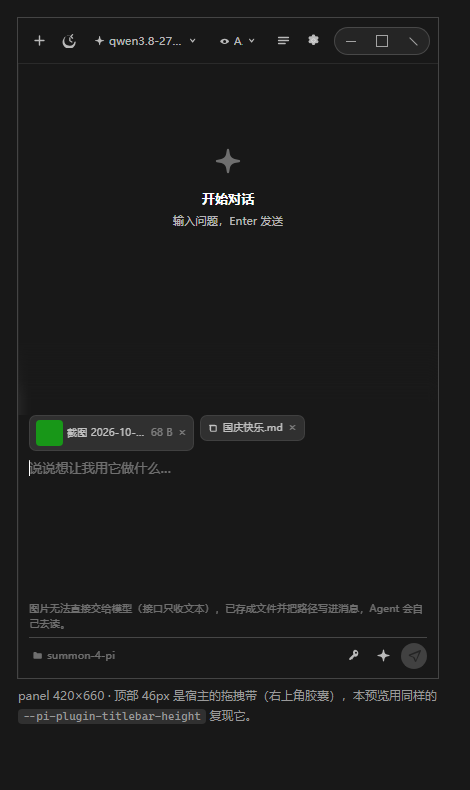
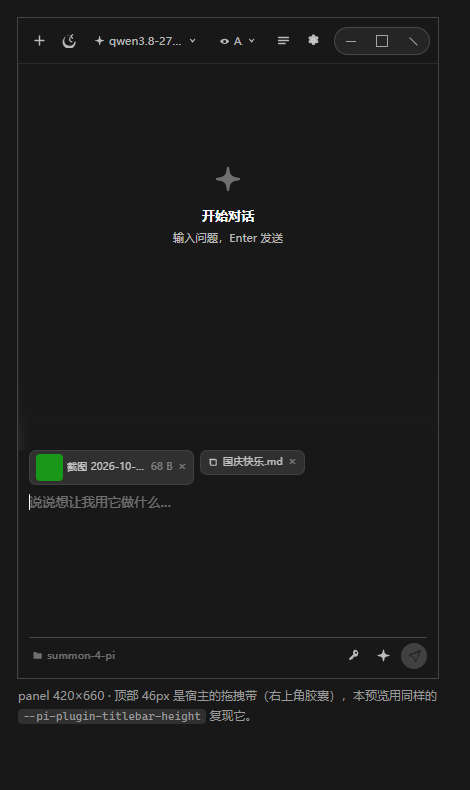
Drop the image note from the composer
The user asked for it gone: it took a line and pushed the controls around. The
limit it explained is documented in the README instead, and it is a two-line
mechanism rather than a policy anyone needs re-stated in the UI.

diff --git a/plugins/local.summon-chat/renderer/index.html b/plugins/local.summon-chat/renderer/index.html
@@ -693,11 +693,6 @@ body { overflow: hidden; }
 }
 .attach .ax:hover { color: var(--text-primary); }
 .attach.bad { border-color: var(--error); }
-.attach-note {
-  margin-top: .3rem; font-size: .6875rem; line-height: 1.45;
-  color: var(--text-disabled);
-}
-.attach-note[hidden] { display: none; }
 /* 输入框下面那一行：左边「当前项目文件夹」，右边四个按钮。
    一行放不下时项目名先截断（它有 title 提示，按钮没有替代品）。 */
 .composer-foot {
@@ -2904,10 +2899,8 @@ window.PiCurve = { create: create };
             <div class="cinbox">
               <textarea class="bare-input comp" id="chatInput" rows="2" placeholder="问点什么…" aria-label="提问输入框"></textarea>
             </div>
-            <!-- 贴了图片时的如实提示（快捷对话看不了图，见 renderAttachNote）。
-                 放在输入区**下面、按钮行上面**：这是布局上的从属关系 ——
-                 它说的是上面那坨内容，不是底下那排按钮。 -->
-            <div class="attach-note" id="attachNote" hidden></div>
+            <!-- 贴了图片时的提示条**删掉了**：用户说它太占位置。
+                 这条限制写在 README 里，不再占界面。 -->
             <!-- 最底下**一行**：左边当前项目文件夹，右边四个按钮。
                  用户要的就是这个形状 —— 项目名和按钮都在最底下、同一行，
                  而不是「项目名一行、按钮另一行」。 -->
@@ -5197,31 +5190,6 @@ window.PiCurve = { create: create };
           $("chatInput").placeholder = attachments.length
             ? "说说想让我用它做什么…"
             : "问点什么…";
-          renderAttachNote();
-        }
-
-        /**
-         * 快捷对话里贴了图片时的一条**如实提示**。
-         *
-         * 原因（已查证，见 README 的「附件」一节）：`pi.agent.complete` 的入参是纯文本
-         * （`messages: {role, content: string}[]`，没有图片字段），插件也没有任何
-         * 「往消息里放附件」的通道。所以哪怕当前模型支持图片，快捷对话也**没有一条路**
-         * 把像素交过去 —— 这一条与模型无关，只与接口有关。
-         *
-         * 不说清楚的话，用户会以为模型「看了图但不准」，而不是「根本没收到图」。
-         */
-        function renderAttachNote() {
-          var note = $("attachNote");
-          if (!note) return;
-          var hasImage = attachments.some(function (a) { return a.isImage; });
-          if (!hasImage) { note.hidden = true; note.textContent = ""; return; }
-          var model = currentModel();
-          var key = model && (model.label || model.key) || models.selected || "当前模型";
-          note.hidden = false;
-          note.textContent = isAgent()
-            ? "图片无法直接交给模型（接口只收文本），已存成文件并把路径写进消息，Agent 会自己去读。"
-            : "快捷对话无法把图片交给模型（接口只收文本）：" + key +
-              " 收不到这张图。换成 Agent 模式才能真正看图。";
         }
 
         function send(text) {

diff --git a/plugins/local.summon-chat/renderer/renderer.template.html b/plugins/local.summon-chat/renderer/renderer.template.html
@@ -242,11 +242,6 @@ body { overflow: hidden; }
 }
 .attach .ax:hover { color: var(--text-primary); }
 .attach.bad { border-color: var(--error); }
-.attach-note {
-  margin-top: .3rem; font-size: .6875rem; line-height: 1.45;
-  color: var(--text-disabled);
-}
-.attach-note[hidden] { display: none; }
 /* 输入框下面那一行：左边「当前项目文件夹」，右边四个按钮。
    一行放不下时项目名先截断（它有 title 提示，按钮没有替代品）。 */
 .composer-foot {
@@ -719,10 +714,8 @@ __ICONS__
             <div class="cinbox">
               <textarea class="bare-input comp" id="chatInput" rows="2" placeholder="问点什么…" aria-label="提问输入框"></textarea>
             </div>
-            <!-- 贴了图片时的如实提示（快捷对话看不了图，见 renderAttachNote）。
-                 放在输入区**下面、按钮行上面**：这是布局上的从属关系 ——
-                 它说的是上面那坨内容，不是底下那排按钮。 -->
-            <div class="attach-note" id="attachNote" hidden></div>
+            <!-- 贴了图片时的提示条**删掉了**：用户说它太占位置。
+                 这条限制写在 README 里，不再占界面。 -->
             <!-- 最底下**一行**：左边当前项目文件夹，右边四个按钮。
                  用户要的就是这个形状 —— 项目名和按钮都在最底下、同一行，
                  而不是「项目名一行、按钮另一行」。 -->
@@ -3012,31 +3005,6 @@ __ICONS__
           $("chatInput").placeholder = attachments.length
             ? "说说想让我用它做什么…"
             : "问点什么…";
-          renderAttachNote();
-        }
-
-        /**
-         * 快捷对话里贴了图片时的一条**如实提示**。
-         *
-         * 原因（已查证，见 README 的「附件」一节）：`pi.agent.complete` 的入参是纯文本
-         * （`messages: {role, content: string}[]`，没有图片字段），插件也没有任何
-         * 「往消息里放附件」的通道。所以哪怕当前模型支持图片，快捷对话也**没有一条路**
-         * 把像素交过去 —— 这一条与模型无关，只与接口有关。
-         *
-         * 不说清楚的话，用户会以为模型「看了图但不准」，而不是「根本没收到图」。
-         */
-        function renderAttachNote() {
-          var note = $("attachNote");
-          if (!note) return;
-          var hasImage = attachments.some(function (a) { return a.isImage; });
-          if (!hasImage) { note.hidden = true; note.textContent = ""; return; }
-          var model = currentModel();
-          var key = model && (model.label || model.key) || models.selected || "当前模型";
-          note.hidden = false;
-          note.textContent = isAgent()
-            ? "图片无法直接交给模型（接口只收文本），已存成文件并把路径写进消息，Agent 会自己去读。"
-            : "快捷对话无法把图片交给模型（接口只收文本）：" + key +
-              " 收不到这张图。换成 Agent 模式才能真正看图。";
         }
 
         function send(text) {
